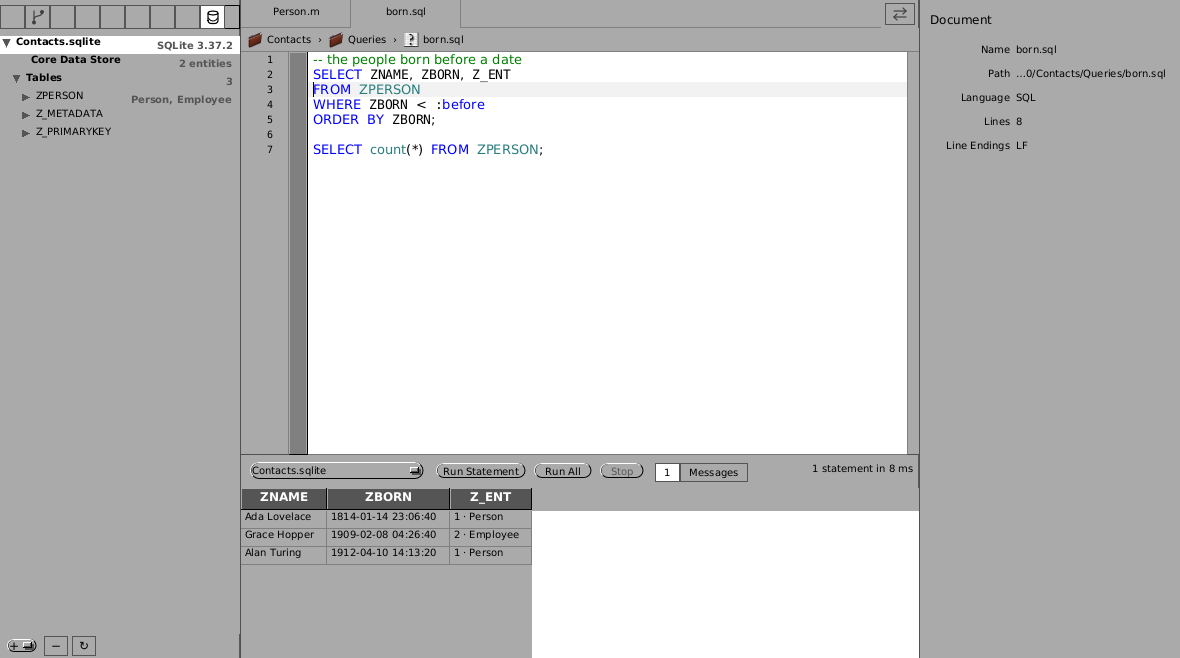
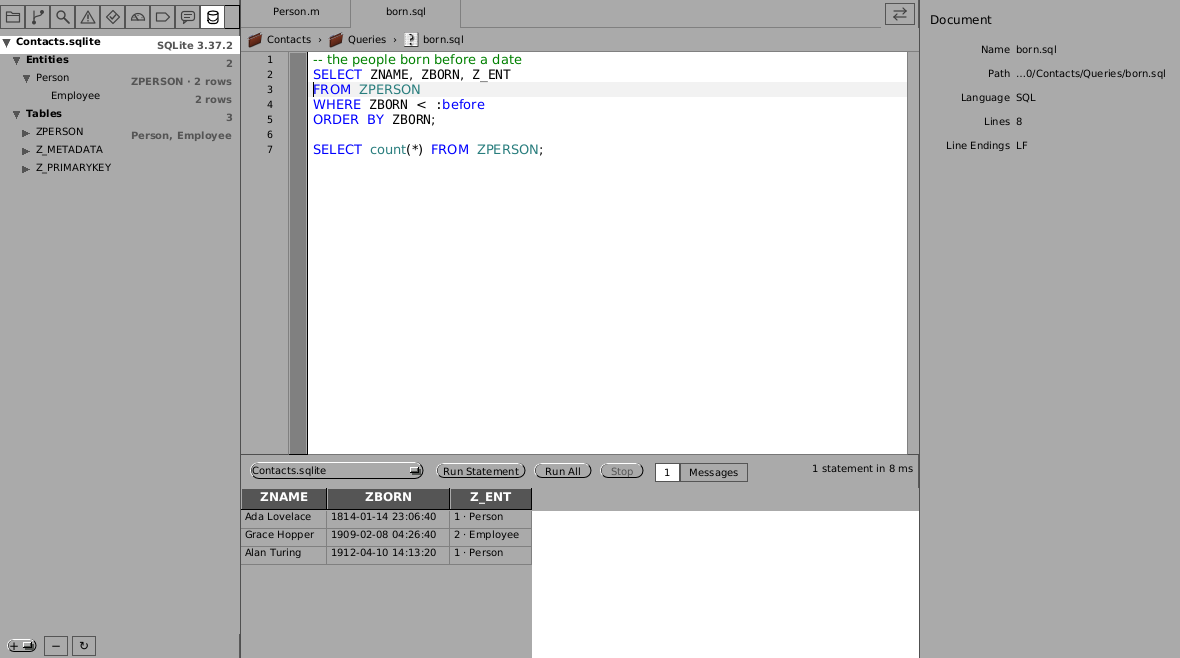
SQL: a Core Data store as its entities
Its navigator shows its Entities, each under its superentity, with its table
and its own rows' count (by Z_ENT); one double-clicked (or Select Rows): its
rows and its subentities', a WHERE on Z_ENT where its table holds others'
too. A many-to-many join table (Z_1TEAMS) is named by the relationship it
holds (Person.teams); the store's metadata is under Store Metadata,
collapsed. The screenshots and docs/sql.md show it.

Changed region(s): [[0.0, 0.0608, 0.2136, 0.2736], [0.122, 0.1824, 0.1831, 0.2128], [0.0915, 0.0, 0.122, 0.0304]]

diff --git a/Plugins/SQL/Sources/UDSQLNavigatorViewController.m b/Plugins/SQL/Sources/UDSQLNavigatorViewController.m
@@ -10,7 +10,8 @@
 typedef NS_ENUM(NSInteger, UDSQLNodeKind) {
     UDSQLNodeDatabase,
     UDSQLNodeNote,              // Connecting…, an error, the store's metadata
-    UDSQLNodeGroup,             // Tables, Views, Core Data
+    UDSQLNodeGroup,             // Entities, Store Metadata, Tables, Views
+    UDSQLNodeEntity,            // a Core Data store's
     UDSQLNodeTable,
     UDSQLNodeColumn,
     UDSQLNodeIndex,
@@ -110,8 +111,9 @@ static NSString *UDColumnBadge(UDSQLColumnInfo *column, UDSQLTable *table) {
     NSString *title = table.schema.length && ![table.schema isEqualToString:@"public"]
         ? [NSString stringWithFormat:@"%@.%@", table.schema, table.name] : table.name;
     UDSQLNode *node = [UDSQLNode nodeOfKind:UDSQLNodeTable title:title object:table];
-    // a Core Data store's: its entities
+    // a Core Data store's: its entities, or the relationship it joins
     if (table.entities.count) node.badge = [table.entities componentsJoinedByString:@", "];
+    else if (table.joinOf) node.badge = [table.joinOf stringByAppendingString:@" (many-to-many)"];
     NSMutableArray *children = [NSMutableArray array];
     for (UDSQLColumnInfo *column in table.columns) {
         UDSQLNode *child = [UDSQLNode nodeOfKind:UDSQLNodeColumn title:column.name object:column];
@@ -134,6 +136,25 @@ static NSString *UDColumnBadge(UDSQLColumnInfo *column, UDSQLTable *table) {
     return node;
 }
 
+/// @a entities, each with its subentities under it.
+- (NSArray<UDSQLNode *> *)_nodesOfEntities:(NSArray<NSNumber *> *)entities schema:(UDSQLSchema *)schema {
+    NSMutableArray *nodes = [NSMutableArray array];
+    for (NSNumber *entity in entities) {
+        UDSQLNode *node = [UDSQLNode nodeOfKind:UDSQLNodeEntity title:schema.coreDataEntities[entity] object:entity];
+        NSNumber *rows = schema.coreDataRowCounts[entity];
+        NSString *table = schema.coreDataTables[entity].name;
+        // its table named once, at its root (a subentity's rows are there too)
+        NSString *count = [NSString stringWithFormat:@"%@ row%@", rows ?: @0, [rows isEqual:@1] ? @"" : @"s"];
+        BOOL root = schema.coreDataSuperentities[entity] == nil;
+        node.badge = table && root ? [NSString stringWithFormat:@"%@ · %@", table, count] : count;
+        node.toolTip = [NSString stringWithFormat:@"In %@, Z_ENT %@: its own rows%@", table ?: @"no table", entity,
+                        [schema coreDataSubentitiesOf:entity].count ? @" (its subentities' are theirs)" : @""];
+        node.children = [self _nodesOfEntities:[schema coreDataSubentitiesOf:entity] schema:schema];
+        [nodes addObject:node];
+    }
+    return nodes;
+}
+
 - (NSArray<UDSQLNode *> *)_childrenOf:(UDSQLDatabase *)database {
     if (database.connecting) return @[ [UDSQLNode nodeOfKind:UDSQLNodeNote title:@"Connecting…" object:nil] ];
     if (database.error) {
@@ -145,9 +166,13 @@ static NSString *UDColumnBadge(UDSQLColumnInfo *column, UDSQLTable *table) {
     if (!schema) return @[];
     NSMutableArray *groups = [NSMutableArray array];
     if (schema.coreDataStore) {
+        // its entities, each under its superentity: their rows, by Z_ENT
+        UDSQLNode *entities = [UDSQLNode nodeOfKind:UDSQLNodeGroup title:@"Entities" object:nil];
+        entities.badge = [NSString stringWithFormat:@"%lu", (unsigned long)schema.coreDataEntities.count];
+        entities.children = [self _nodesOfEntities:[schema coreDataSubentitiesOf:nil] schema:schema];
+        [groups addObject:entities];
         // the store's metadata: its identity, and the model's
-        UDSQLNode *store = [UDSQLNode nodeOfKind:UDSQLNodeGroup title:@"Core Data Store" object:nil];
-        store.badge = [NSString stringWithFormat:@"%lu entities", (unsigned long)schema.coreDataEntities.count];
+        UDSQLNode *store = [UDSQLNode nodeOfKind:UDSQLNodeGroup title:@"Store Metadata" object:nil];
         NSMutableArray *notes = [NSMutableArray array];
         for (NSString *key in @[ @"NSStoreType", @"NSStoreUUID", @"NSPersistenceFrameworkVersion", @"NSStoreModelVersionIdentifiers" ]) {
             id value = schema.coreDataMetadata[key];
@@ -155,10 +180,11 @@ static NSString *UDColumnBadge(UDSQLColumnInfo *column, UDSQLTable *table) {
             if ([value isKindOfClass:[NSArray class]]) value = [value componentsJoinedByString:@", "];
             UDSQLNode *note = [UDSQLNode nodeOfKind:UDSQLNodeNote title:[key stringByReplacingOccurrencesOfString:@"NS" withString:@""] object:nil];
             note.badge = [value description];
+            note.toolTip = [value description];
             [notes addObject:note];
         }
         store.children = notes;
-        [groups addObject:store];
+        if (notes.count) [groups addObject:store];
     }
     NSMutableArray *tables = [NSMutableArray array], *views = [NSMutableArray array];
     for (UDSQLTable *table in schema.tables) [table.view ? views : tables addObject:[self _nodeOfTable:table]];
@@ -197,8 +223,10 @@ static NSString *UDColumnBadge(UDSQLColumnInfo *column, UDSQLTable *table) {
         // a database opened: what it holds, its groups too
         BOOL wasOpen = [open containsObject:node.path];
         BOOL connected = node.kind == UDSQLNodeDatabase && ([node.object isConnected] || [node.object error] || [node.object isConnecting]);
-        BOOL group = node.kind == UDSQLNodeGroup && node.parent && [open containsObject:node.parent.path] && ![node.title isEqualToString:@"Core Data Store"];
-        if (wasOpen || (connected && [open containsObject:node.path]) || group) [_outlineView expandItem:node];
+        BOOL group = node.kind == UDSQLNodeGroup && node.parent && [open containsObject:node.parent.path] && ![node.title isEqualToString:@"Store Metadata"];
+        // an entity's subentities shown: the store's hierarchy at a glance
+        BOOL entity = node.kind == UDSQLNodeEntity && node.children.count;
+        if (wasOpen || (connected && [open containsObject:node.path]) || group || entity) [_outlineView expandItem:node];
         if (selected && [node.path isEqualToString:selected]) {
             [_outlineView selectRowIndexes:[NSIndexSet indexSetWithIndex:(NSUInteger)row] byExtendingSelection:NO];
         }
@@ -261,7 +289,7 @@ static NSString *UDColumnBadge(UDSQLColumnInfo *column, UDSQLTable *table) {
     if ([cell isKindOfClass:[UDBadgeTextFieldCell class]]) [(UDBadgeTextFieldCell *)cell setBadge:node.badge];
     BOOL bold = node.kind == UDSQLNodeDatabase || node.kind == UDSQLNodeGroup;
     [cell setFont:bold ? [NSFont boldSystemFontOfSize:[NSFont smallSystemFontSize]] : [NSFont systemFontOfSize:[NSFont smallSystemFontSize]]];
-    BOOL dim = node.kind == UDSQLNodeNote && ![node.parent.title isEqualToString:@"Core Data Store"];
+    BOOL dim = node.kind == UDSQLNodeNote && ![node.parent.title isEqualToString:@"Store Metadata"];
     [cell setTextColor:dim ? [NSColor disabledControlTextColor] : [NSColor controlTextColor]];
 }
 
@@ -300,7 +328,7 @@ static NSString *UDColumnBadge(UDSQLColumnInfo *column, UDSQLTable *table) {
     [menu removeAllItems];
     NSInteger row = _outlineView.clickedRow;
     _menuNode = row >= 0 ? [_outlineView itemAtRow:row] : nil;
-    NSMenu *source = _menuNode.kind == UDSQLNodeTable ? _tableMenu : _menuNode ? _databaseMenu : nil;
+    NSMenu *source = _menuNode.kind == UDSQLNodeTable || _menuNode.kind == UDSQLNodeEntity ? _tableMenu : _menuNode ? _databaseMenu : nil;
     for (NSMenuItem *item in source.itemArray) [menu addItem:[item copy]];
 }
 
@@ -402,9 +430,8 @@ static NSString *UDColumnBadge(UDSQLColumnInfo *column, UDSQLTable *table) {
     UDSQLDatabase *database = [self _databaseOf:node];
     if (!database) return;
     NSString *text = @"";
-    if (node.kind == UDSQLNodeTable) {
-        text = [NSString stringWithFormat:@"SELECT *\nFROM %@\nWHERE ", [node.object qualifiedNameFor:(id)[self _quoter:database]]];
-    }
+    UDSQLTable *table = [self _tableOf:node];
+    if (table) text = [NSString stringWithFormat:@"SELECT *\nFROM %@\nWHERE ", [table qualifiedNameFor:[self _quoter:database]]];
     [_databases openQuery:text database:database run:NO];
 }
 
@@ -414,24 +441,37 @@ static NSString *UDColumnBadge(UDSQLColumnInfo *column, UDSQLTable *table) {
     return database.runner.connection ?: [[UDSQLConnection alloc] init];
 }
 
+/// A table's row's table; an entity's, its table (its root entity's).
+- (nullable UDSQLTable *)_tableOf:(UDSQLNode *)node {
+    if (node.kind == UDSQLNodeTable) return node.object;
+    if (node.kind == UDSQLNodeEntity) return [self _databaseOf:node].schema.coreDataTables[node.object];
+    return nil;
+}
+
 - (IBAction)selectRows:(id)sender {
     UDSQLNode *node = [self _actedOn:sender];
-    if (node.kind != UDSQLNodeTable) return;
     UDSQLDatabase *database = [self _databaseOf:node];
-    NSString *name = [node.object qualifiedNameFor:[self _quoter:database]];
-    [_databases openQuery:[NSString stringWithFormat:@"SELECT * FROM %@ LIMIT 100", name] database:database run:YES];
+    NSString *sql = nil;
+    if (node.kind == UDSQLNodeTable) {
+        sql = [NSString stringWithFormat:@"SELECT * FROM %@ LIMIT 100", [node.object qualifiedNameFor:[self _quoter:database]]];
+    } else if (node.kind == UDSQLNodeEntity && [self _tableOf:node]) {
+        // an entity's rows: its own and its subentities', in its table
+        sql = [database.schema coreDataRowsOfEntity:node.object connection:[self _quoter:database] limit:100];
+    }
+    if (sql) [_databases openQuery:sql database:database run:YES];
 }
 
 - (IBAction)copyName:(id)sender {
     UDSQLNode *node = [self _actedOn:sender];
     NSPasteboard *pasteboard = [NSPasteboard generalPasteboard];
     [pasteboard declareTypes:@[ NSPasteboardTypeString ] owner:nil];
-    [pasteboard setString:node.kind == UDSQLNodeTable ? [node.object name] : node.title forType:NSPasteboardTypeString];
+    UDSQLTable *table = [self _tableOf:node];
+    [pasteboard setString:table ? table.name : node.title forType:NSPasteboardTypeString];
 }
 
 - (IBAction)openItem:(id)sender {
     UDSQLNode *node = [self _clickedNode];
-    if (node.kind == UDSQLNodeTable) [self selectRows:nil];
+    if (node.kind == UDSQLNodeTable || node.kind == UDSQLNodeEntity) [self selectRows:nil];
     else if (node.kind == UDSQLNodeDatabase) {
         if ([_outlineView isItemExpanded:node]) [_outlineView collapseItem:node];
         else [_outlineView expandItem:node];

diff --git a/Plugins/SQL/Sources/UDSQLSchema.m b/Plugins/SQL/Sources/UDSQLSchema.m
@@ -70,8 +70,46 @@ static const NSUInteger UDCatalogueRows = 100000;
     schema->_tables = tables;
     schema->_coreDataMetadata = @{};
     schema->_coreDataEntities = @{};
+    schema->_coreDataSuperentities = @{};
+    schema->_coreDataTables = @{};
+    schema->_coreDataRowCounts = @{};
     [schema _readCoreData:connection];
     return schema;
+}
+
+static NSInteger UDCompareEntities(NSNumber *a, NSNumber *b, void *context) {
+    NSDictionary *names = (__bridge NSDictionary *)context;
+    return [names[a] localizedStandardCompare:names[b]];
+}
+
+- (NSArray<NSNumber *> *)coreDataSubentitiesOf:(NSNumber *)entity {
+    NSMutableArray<NSNumber *> *subentities = [NSMutableArray array];
+    for (NSNumber *candidate in _coreDataEntities) {
+        NSNumber *parent = _coreDataSuperentities[candidate];
+        if ((entity && [parent isEqual:entity]) || (!entity && !parent)) [subentities addObject:candidate];
+    }
+    [subentities sortUsingFunction:UDCompareEntities context:(__bridge void *)_coreDataEntities];
+    return subentities;
+}
+
+- (void)_addEntity:(NSNumber *)entity to:(NSMutableArray<NSNumber *> *)found {
+    [found addObject:entity];
+    for (NSNumber *subentity in [self coreDataSubentitiesOf:entity]) [self _addEntity:subentity to:found];
+}
+
+- (NSString *)coreDataRowsOfEntity:(NSNumber *)entity connection:(UDSQLConnection *)connection limit:(NSUInteger)limit {
+    UDSQLTable *table = _coreDataTables[entity];
+    NSMutableArray<NSNumber *> *mine = [NSMutableArray array];
+    [self _addEntity:entity to:mine];
+    NSUInteger holding = 0;
+    for (NSNumber *other in _coreDataTables) if (_coreDataTables[other] == table) holding++;
+    NSString *sql = [NSString stringWithFormat:@"SELECT * FROM %@", [table qualifiedNameFor:connection]];
+    if (holding > mine.count) {
+        // its table holds others' rows too: its own, and its subentities'
+        sql = [sql stringByAppendingFormat:@" WHERE %@ IN (%@)", [connection quotedIdentifier:@"Z_ENT"],
+               [[mine valueForKey:@"stringValue"] componentsJoinedByString:@", "]];
+    }
+    return [sql stringByAppendingFormat:@" ORDER BY %@ LIMIT %lu", [connection quotedIdentifier:@"Z_PK"], (unsigned long)limit];
 }
 
 - (UDSQLTable *)tableNamed:(NSString *)name {
@@ -314,15 +352,43 @@ static const NSUInteger UDCatalogueRows = 100000;
         supers[entity] = @([UDString(row, 2) integerValue]);
     }
     _coreDataEntities = names;
+    NSMutableDictionary *superentities = [NSMutableDictionary dictionary];
+    for (NSNumber *entity in supers) {
+        if ([supers[entity] integerValue] > 0 && names[supers[entity]]) superentities[entity] = supers[entity];
+    }
+    _coreDataSuperentities = superentities;
+    NSMutableDictionary<NSNumber *, UDSQLTable *> *tables = [NSMutableDictionary dictionary];
     // each entity's rows: its root's table (Z + the root's name, upper case)
     for (NSNumber *entity in [names.allKeys sortedArrayUsingSelector:@selector(compare:)]) {
         NSNumber *root = entity;
         for (NSUInteger depth = 0; [supers[root] integerValue] > 0 && depth < names.count; depth++) root = supers[root];
         UDSQLTable *table = [self tableNamed:[@"Z" stringByAppendingString:[names[root] uppercaseString]]];
+        if (table) tables[entity] = table;
         if (table && ![table.entities containsObject:names[entity]]) {
             table.entities = [entity isEqual:root] ? [@[ names[entity] ] arrayByAddingObjectsFromArray:table.entities]
                                                    : [table.entities arrayByAddingObject:names[entity]];
         }
+    }
+    _coreDataTables = tables;
+    // each entity's own rows: counted in its table by Z_ENT
+    NSMutableDictionary<NSNumber *, NSNumber *> *counts = [NSMutableDictionary dictionary];
+    for (UDSQLTable *table in [NSSet setWithArray:tables.allValues]) {
+        BOOL entities = NO;
+        for (UDSQLColumnInfo *column in table.columns) entities = entities || [column.name caseInsensitiveCompare:@"Z_ENT"] == NSOrderedSame;
+        if (!entities) continue;
+        UDSQLResult *counted = [connection execute:[NSString stringWithFormat:@"SELECT %@, count(*) FROM %@ GROUP BY %@", ent,
+                                                    [table qualifiedNameFor:connection], ent]
+                                        parameters:@[] maxRows:UDCatalogueRows error:NULL];
+        for (NSArray *row in counted.rows) counts[@([UDString(row, 0) integerValue])] = @([UDString(row, 1) longLongValue]);
+    }
+    for (NSNumber *entity in names) if (tables[entity] && !counts[entity]) counts[entity] = @0;
+    _coreDataRowCounts = counts;
+    // many-to-many join tables: Z_<the entity's number><THE RELATIONSHIP>
+    NSRegularExpression *join = [NSRegularExpression regularExpressionWithPattern:@"^Z_([0-9]+)([A-Z0-9_]+)$" options:0 error:NULL];
+    for (UDSQLTable *table in _tables) {
+        NSTextCheckingResult *match = [join firstMatchInString:table.name options:0 range:NSMakeRange(0, table.name.length)];
+        NSString *entity = match ? names[@([[table.name substringWithRange:[match rangeAtIndex:1]] integerValue])] : nil;
+        if (entity) table.joinOf = [NSString stringWithFormat:@"%@.%@", entity, [[table.name substringWithRange:[match rangeAtIndex:2]] lowercaseString]];
     }
     for (UDSQLTable *table in _tables) {
         for (UDSQLColumnInfo *column in table.columns) {

diff --git a/Tests/UDSQLTests.m b/Tests/UDSQLTests.m
@@ -157,11 +157,23 @@ static Class UDPluginClass(NSString *name) {
     XCTAssertNotNil(([connection execute:@"INSERT INTO Z_METADATA VALUES (1, 'ABC', ?)" parameters:@[ plist ] maxRows:1 error:&error]), @"%@", error);
     [self run:@"CREATE TABLE ZPERSON (Z_PK INTEGER PRIMARY KEY, Z_ENT INTEGER, Z_OPT INTEGER, ZNAME VARCHAR, ZBIRTHDAY TIMESTAMP)" on:connection];
     [self run:@"CREATE TABLE ZTEAM (Z_PK INTEGER PRIMARY KEY, Z_ENT INTEGER, Z_OPT INTEGER, ZTITLE VARCHAR)" on:connection];
+    [self run:@"INSERT INTO ZPERSON VALUES (1, 1, 1, 'Ann', 0), (2, 2, 1, 'Bob', 0), (3, 2, 1, 'Cy', 0)" on:connection];
+    [self run:@"CREATE TABLE Z_1TEAMS (Z_1PEOPLE INTEGER, Z_3TEAMS INTEGER)" on:connection];
     UDSQLSchema *schema = [UDPlugin(UDSQLSchema) schemaOfConnection:connection error:&error];
     XCTAssertTrue(schema.coreDataStore);
     XCTAssertEqualObjects([schema tableNamed:@"ZPERSON"].entities, (@[ @"Person", @"Employee" ]), @"a subentity's rows are its root's");
     XCTAssertEqualObjects([schema tableNamed:@"ZTEAM"].entities, @[ @"Team" ]);
     XCTAssertEqualObjects(schema.coreDataEntities[@2], @"Employee");
+    XCTAssertEqualObjects(schema.coreDataSuperentities[@2], @1);
+    XCTAssertEqualObjects([schema coreDataSubentitiesOf:nil], (@[ @1, @3 ]), @"the roots, by name: Person, Team");
+    XCTAssertEqualObjects([schema coreDataSubentitiesOf:@1], @[ @2 ]);
+    XCTAssertEqualObjects(schema.coreDataTables[@2].name, @"ZPERSON", @"a subentity's rows are its root's table's");
+    XCTAssertEqualObjects(schema.coreDataRowCounts, (@{ @1: @1, @2: @2, @3: @0 }), @"each entity's own rows");
+    XCTAssertEqualObjects([schema tableNamed:@"Z_1TEAMS"].joinOf, @"Person.teams", @"a many-to-many join table");
+    XCTAssertEqualObjects([schema coreDataRowsOfEntity:@1 connection:connection limit:100],
+                          @"SELECT * FROM \"ZPERSON\" ORDER BY \"Z_PK\" LIMIT 100", @"Person's and Employee's: the whole table");
+    XCTAssertEqualObjects([schema coreDataRowsOfEntity:@2 connection:connection limit:100],
+                          @"SELECT * FROM \"ZPERSON\" WHERE \"Z_ENT\" IN (2) ORDER BY \"Z_PK\" LIMIT 100", @"Employee's only");
     XCTAssertEqualObjects(schema.coreDataMetadata[@"NSStoreType"], @"SQLite");
     UDSQLTable *person = [schema tableNamed:@"ZPERSON"];
     XCTAssertEqualObjects(person.columns[1].coreDataMeaning, @"The row's entity (Z_PRIMARYKEY's Z_ENT)");

diff --git a/Plugins/SQL/Sources/UDSQLSchema.h b/Plugins/SQL/Sources/UDSQLSchema.h
@@ -52,6 +52,9 @@ NS_ASSUME_NONNULL_BEGIN
 @property (nonatomic, copy) NSArray<UDSQLIndex *> *indexes;
 /// A Core Data store's: the entities whose rows it holds (the root first).
 @property (nonatomic, copy) NSArray<NSString *> *entities;
+/// A Core Data store's many-to-many join table: the relationship it holds
+/// ("Person.tags"); nil for another table.
+@property (nonatomic, copy, nullable) NSString *joinOf;
 /// The name to write in SQL: schema-qualified where there are schemas.
 - (NSString *)qualifiedNameFor:(UDSQLConnection *)connection;
 @end
@@ -68,8 +71,17 @@ NS_ASSUME_NONNULL_BEGIN
 /// Whether it is a Core Data store, and its metadata (Z_METADATA's plist).
 @property (nonatomic, readonly, getter=isCoreDataStore) BOOL coreDataStore;
 @property (nonatomic, readonly, copy) NSDictionary *coreDataMetadata;
-/// Z_ENT's values: the entity each numbers.
+/// Z_ENT's values: the entity each numbers; each's superentity (none: absent),
+/// its table (its root entity's), and its own rows (not its subentities').
 @property (nonatomic, readonly, copy) NSDictionary<NSNumber *, NSString *> *coreDataEntities;
+@property (nonatomic, readonly, copy) NSDictionary<NSNumber *, NSNumber *> *coreDataSuperentities;
+@property (nonatomic, readonly, copy) NSDictionary<NSNumber *, UDSQLTable *> *coreDataTables;
+@property (nonatomic, readonly, copy) NSDictionary<NSNumber *, NSNumber *> *coreDataRowCounts;
+/// @a entity's subentities, by name.
+- (NSArray<NSNumber *> *)coreDataSubentitiesOf:(nullable NSNumber *)entity;
+/// The SQL of @a entity's rows: its own and its subentities' (a WHERE on
+/// Z_ENT when its table holds others' too).
+- (NSString *)coreDataRowsOfEntity:(NSNumber *)entity connection:(UDSQLConnection *)connection limit:(NSUInteger)limit;
 
 @end
 

diff --git a/Tests/UDSQLWindowTests.m b/Tests/UDSQLWindowTests.m
@@ -114,7 +114,9 @@ static Class UDPluginClass(NSString *name) {
     XCTAssertTrue(store.schema.coreDataStore);
     NSArray *titles = [databases.navigator visibleTitles];
     XCTAssertTrue([titles containsObject:@"Model.sqlite"], @"%@", titles);
-    XCTAssertTrue([titles containsObject:@"  Core Data Store"], @"%@", titles);
+    XCTAssertTrue([titles containsObject:@"  Entities"], @"%@", titles);
+    XCTAssertTrue([titles containsObject:@"    Person"], @"%@", titles);
+    XCTAssertTrue([titles containsObject:@"      Employee"], @"a subentity under its superentity: %@", titles);
     XCTAssertTrue([titles containsObject:@"    ZPERSON"], @"%@", titles);
 
     // the query: run against it (its only database), every statement

diff --git a/docs/sql.md b/docs/sql.md
@@ -46,11 +46,20 @@ without one says how):
 
 ## Core Data stores
 
-A store's tables are named by what they hold: `ZPERSON` holds Person (and
-Employee, its subentity, whose rows are its root's). The store's metadata —
-its type, UUID and model version — is under **Core Data Store**. In results,
-Core Data's dates (seconds since 2001) show as dates, and `Z_ENT` names its
-entity: `2 · Employee`. `Z_PK` is the row's key, `Z_OPT` its version.
+A Core Data store opens as the entities it holds, not only as tables:
+
+- **Entities**: each under its superentity, with its table and how many of
+  its rows there are (its own: its subentities' are theirs). Double-click
+  one (or Select Rows) for its rows — its own and its subentities': a
+  subentity's rows are in its root entity's table, told apart by `Z_ENT`.
+- **Tables**: each `Z` table named by the entities whose rows it holds
+  (`ZPERSON`: Person, Employee); a many-to-many join table (`Z_1TEAMS`) by
+  the relationship it holds (`Person.teams`).
+- **Store Metadata**: its type, UUID and model version.
+
+In results, Core Data's dates (seconds since 2001) show as dates, and
+`Z_ENT` names its entity: `2 · Employee`. `Z_PK` is the row's key, `Z_OPT`
+its version.
 
 ## Running a query
 
